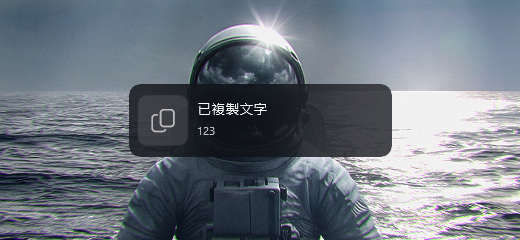
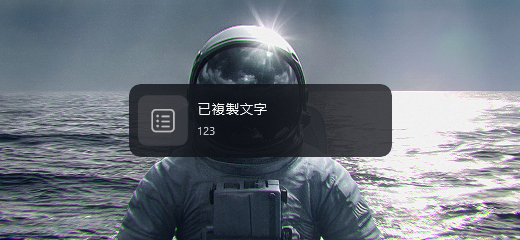
docs(fluent-osd): refresh clipboard captures and add redacted network example
Replace clipboard text/file captures with native 520x240 crops; add network example with the third-party interface name obscured. Update the asset gallery while retaining existing image paths.

diff --git a/README.md b/README.md
@@ -30,9 +30,11 @@ Actual Windows 11 captures, cropped to **520 × 240 pixels** without resizing or
 
 ### System and device events
 
-| Caps Lock | Bluetooth |
+| Bluetooth | Network interface |
 | :---: | :---: |
-| ![Caps Lock](fluent-osd/screenshots/07_caps_lock.png) | ![Bluetooth](fluent-osd/screenshots/08_bluetooth.png) |
+| ![Bluetooth](fluent-osd/screenshots/08_bluetooth.png) | ![Network event](fluent-osd/screenshots/12_network.png) |
+
+See also the [Caps Lock example](fluent-osd/screenshots/07_caps_lock.png).
 
 See [Fluent OSD](https://github.com/reg-chen/windhawk-mods/blob/fluent-osd-brush-layers/mods/fluent-osd.wh.cpp) for the Windhawk mod source and feature notes.
 
